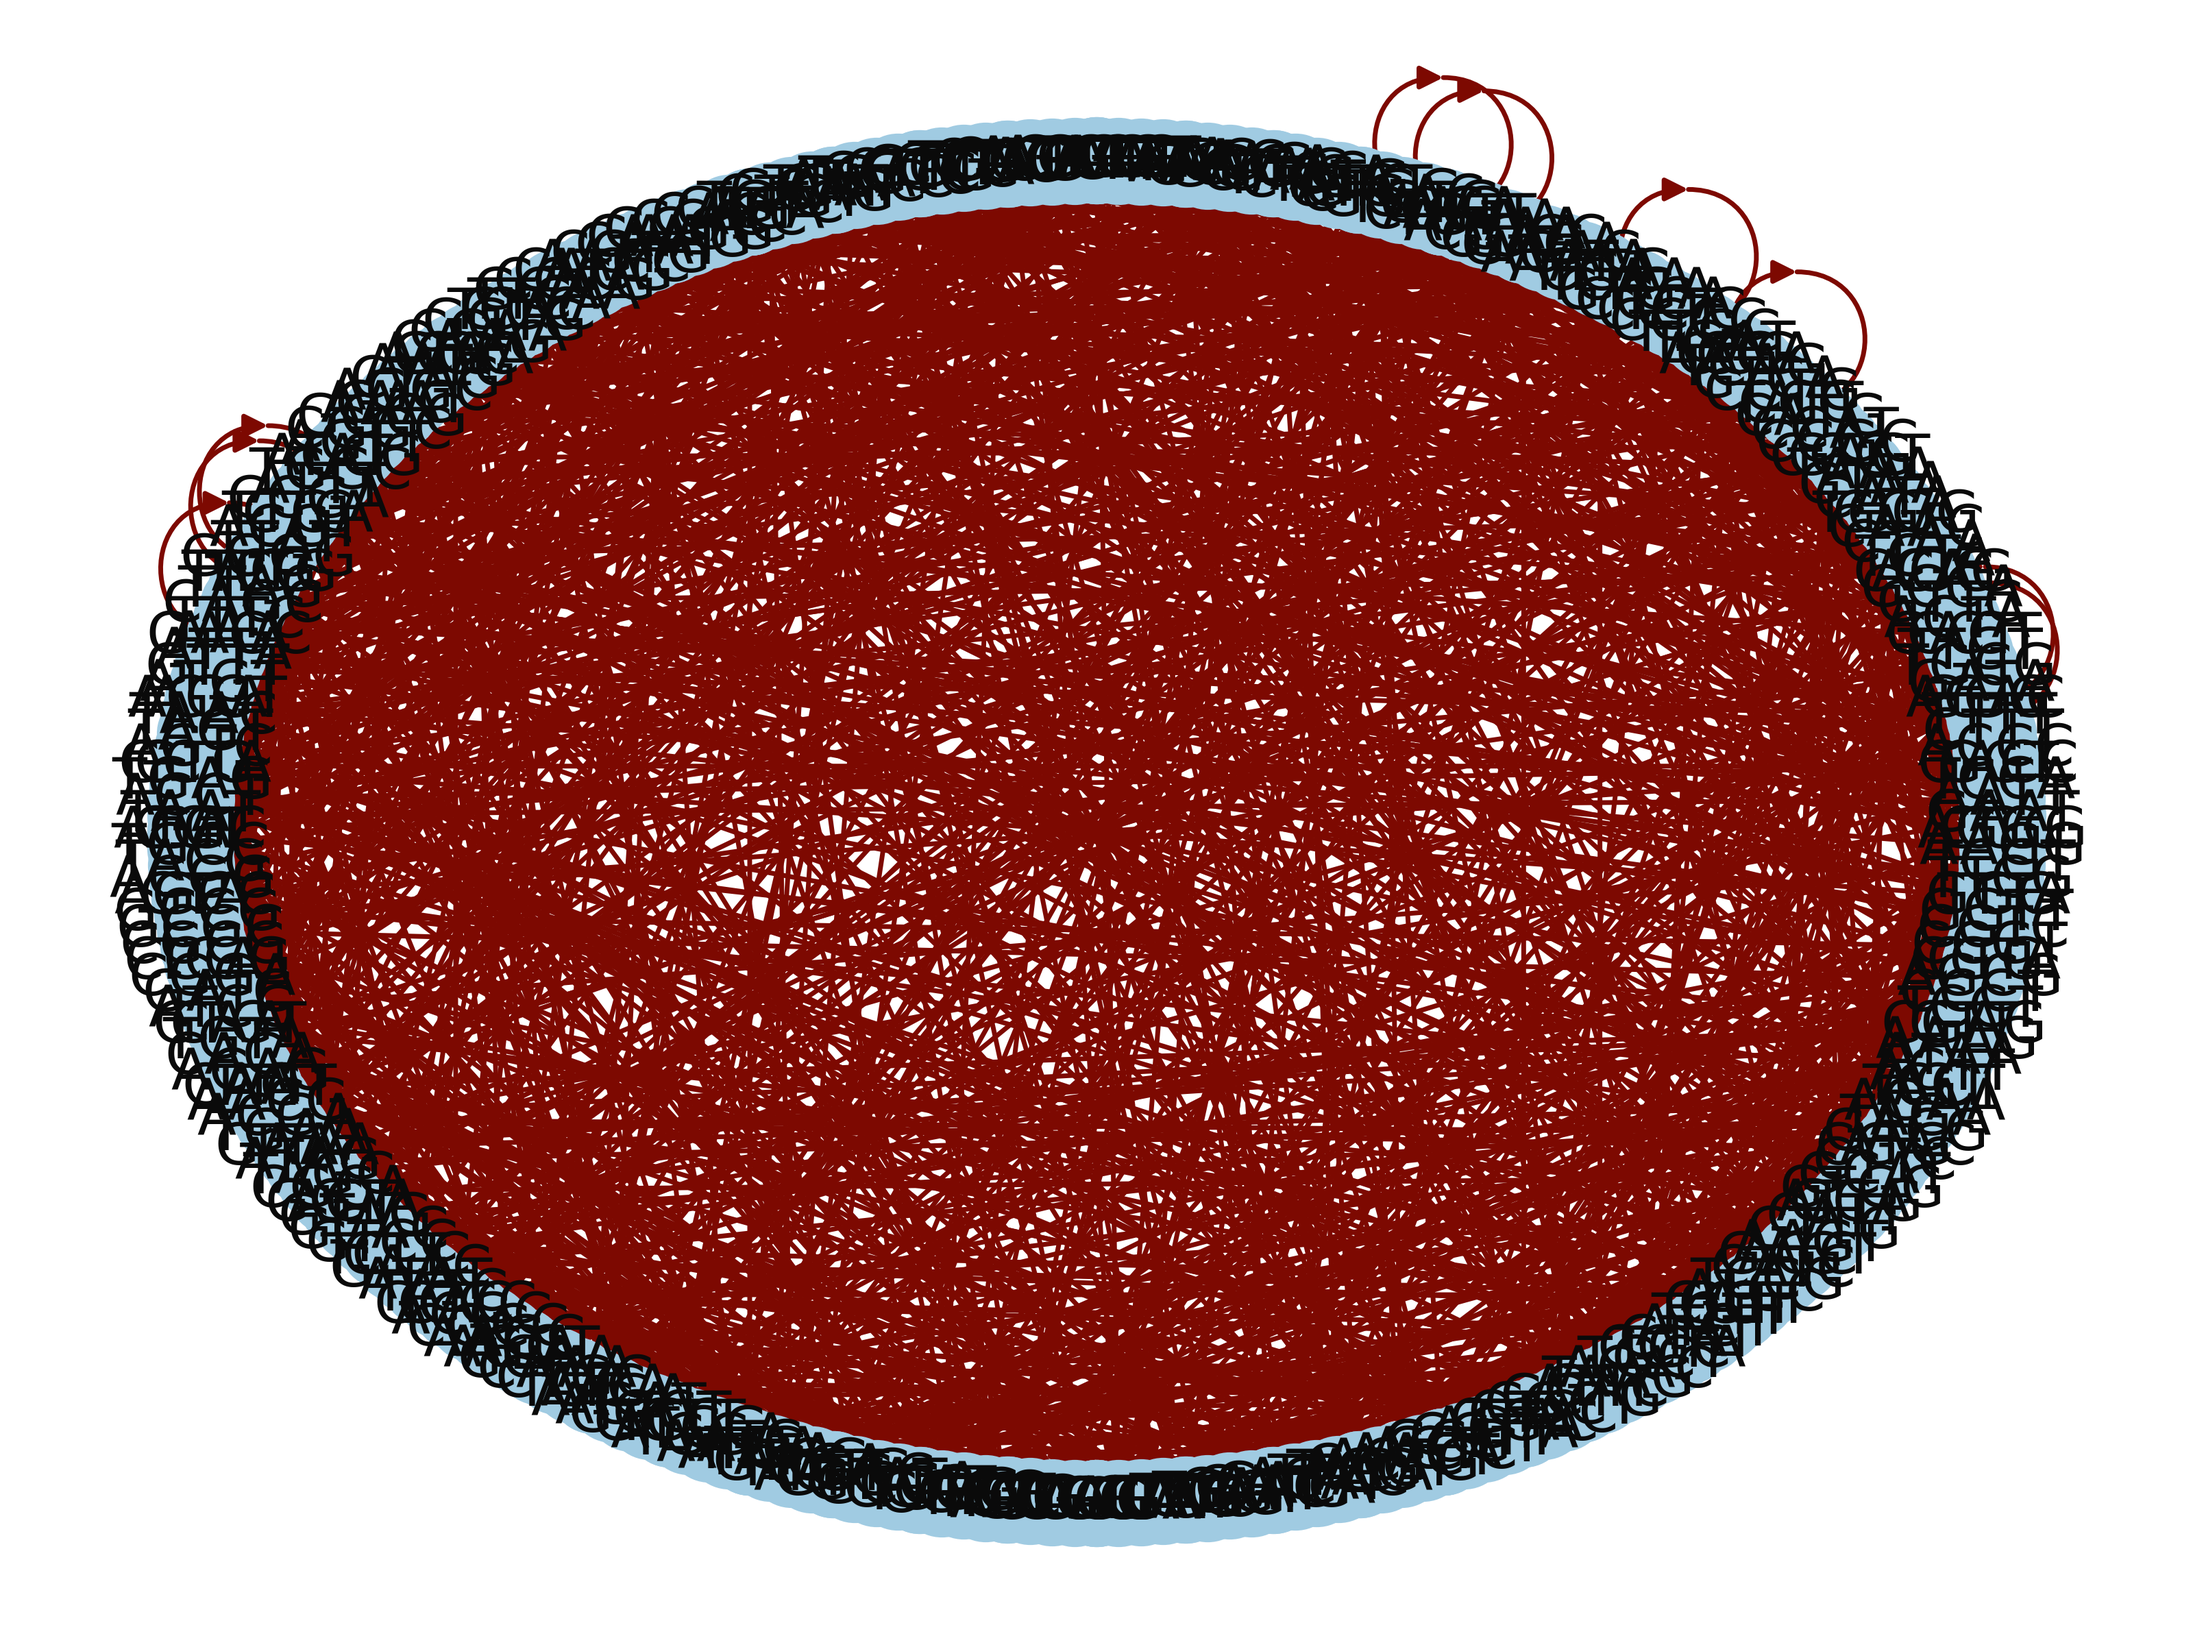
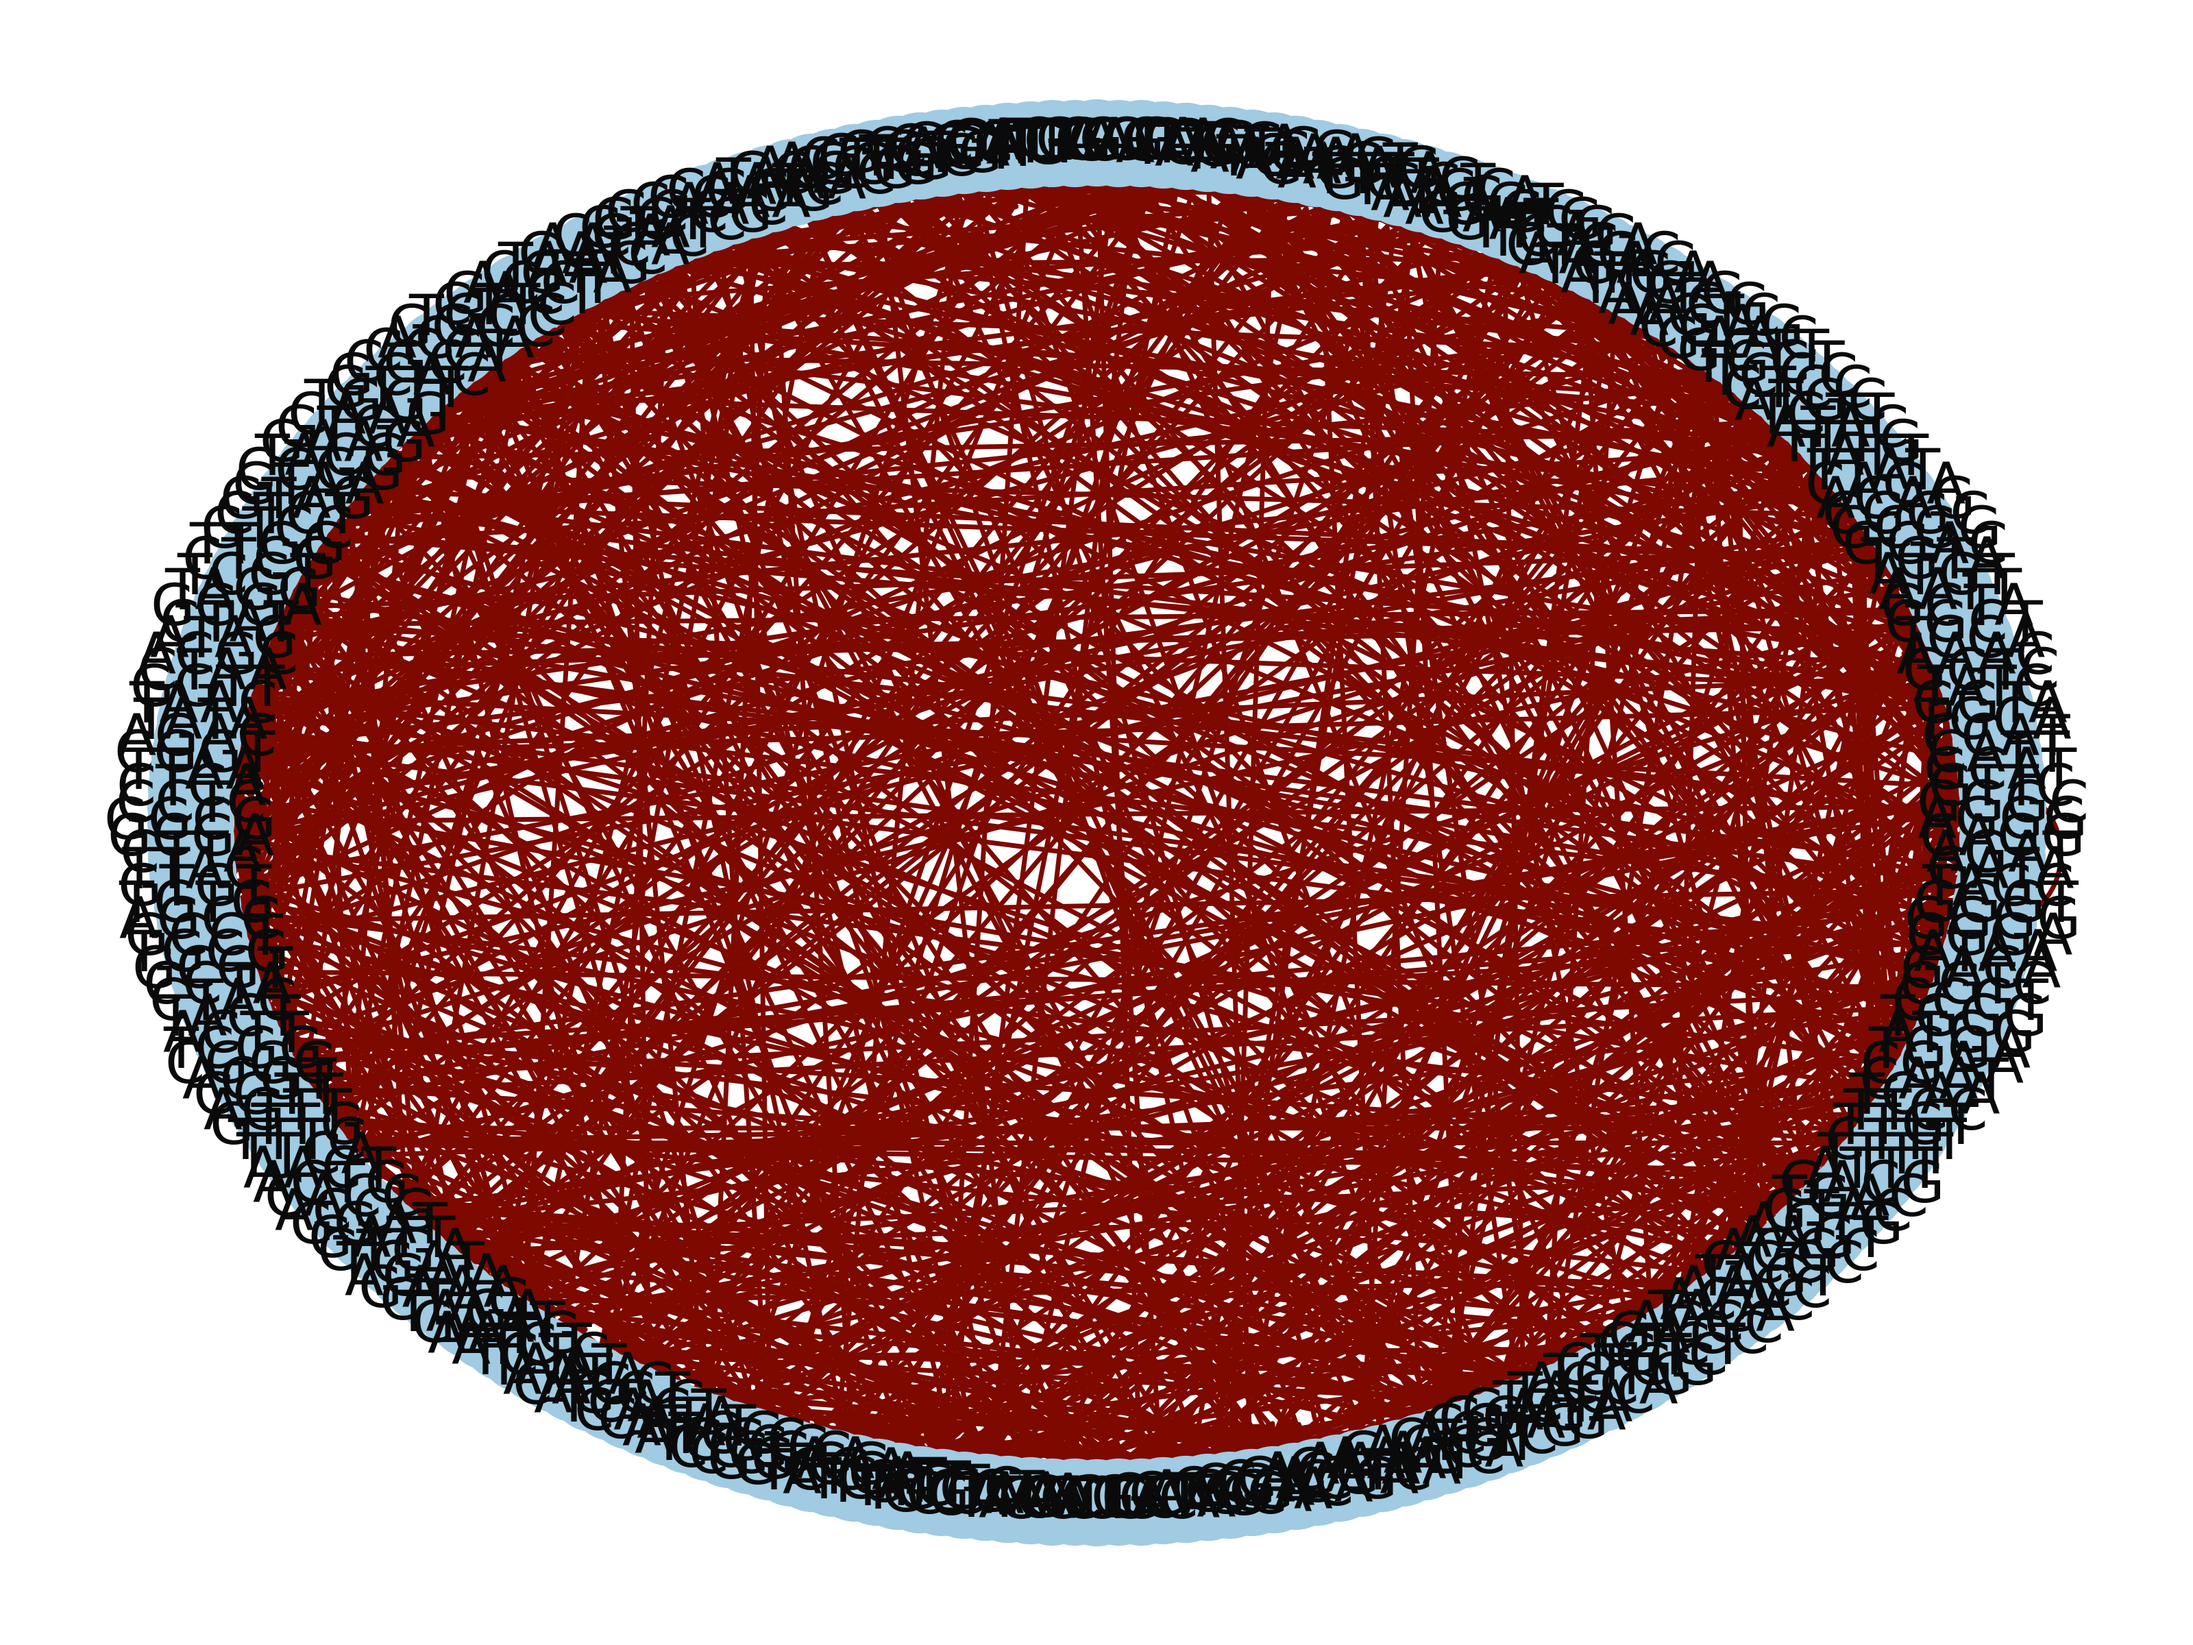
update

Changed region(s): [[0.0312, 0.0312, 0.9688, 0.9375]]

diff --git a/de_bruijn.py b/de_bruijn.py
@@ -10,22 +10,22 @@ import matplotlib.pyplot as plt
 import networkx as nx
 
 class De_bruijn:
-    def __init__(self, seq = [], header = []):
+    def __init__(self, seq = [], header = [], k=3, cycle=True):
         self.header = header
         self.seq = seq
 
         self.kmers = {}
         self.edges = set()
-        self.de_bruijn_graph()
+        self.de_bruijn_graph(k, cycle)
 
     # ----------------------------------------------------------------------------------------------------------
     # Sets values for attributes self.kmer and self.edges
     def de_bruijn_graph(self, k=3, cycle=True):
 
         self.kmers = self.get_kmers(k, cycle)
-        print("Completed ", k, "-mer build!")
+        print("Completed: ", k, "-mer")
         self.edges = self.get_edges(self.kmers)
-        print("Completed edge ", k, "-mer build!")
+        print("Completed Edges: ", k, "-mer")
 
     # ----------------------------------------------------------------------------------------------------------
     # Build a list of all kmers in the provided sequences
@@ -53,7 +53,7 @@ class De_bruijn:
                     kmers[kmer] += 1
                 else:                               # Add kmer to dictionary (kmer is new)
                     kmers[kmer] = 1
-
+        
         return kmers
 
     # ----------------------------------------------------------------------------------------------------------

diff --git a/main.py b/main.py
@@ -71,9 +71,10 @@ def main():
     elif(len(sys.argv) == 1):
         fna_file = "./input/sars_spike_protein_reads.fastq"
         data = get_data(fna_file)                                                       # Processing genome data from fna file
+        k = 5
 
-        db_graph = db.De_bruijn(data[0], data[1])                                       # Create de Bruijn graph
-        db_graph.make_docs(True,True,True)
+        db_graph = db.De_bruijn(data[0], data[1], k=k)                                       # Create de Bruijn graph
+        db_graph.make_docs(True,True,True, str(k))
 
     # ----------------------------------------------------------------------------------------------------------
     # Use default file and run kmer loop
